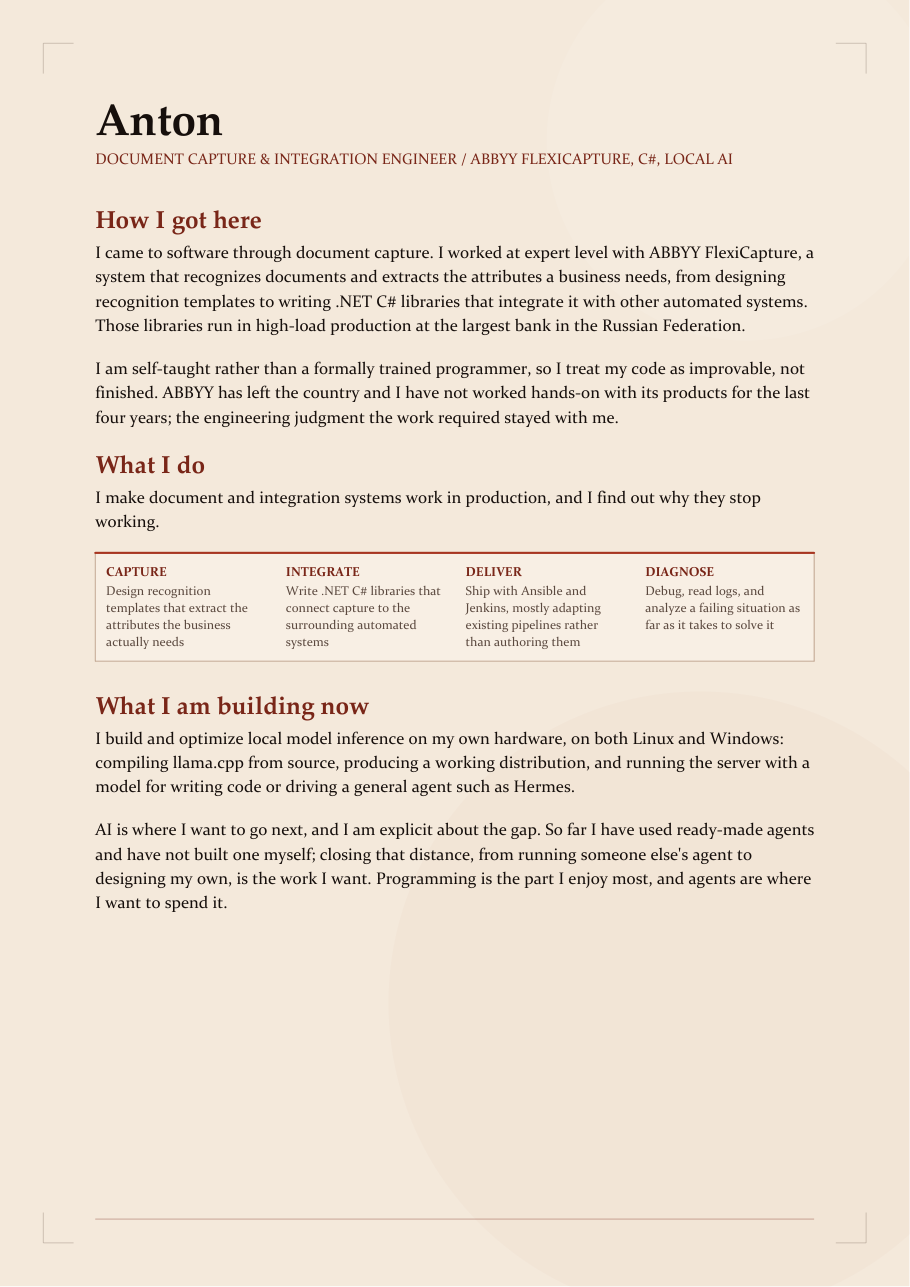
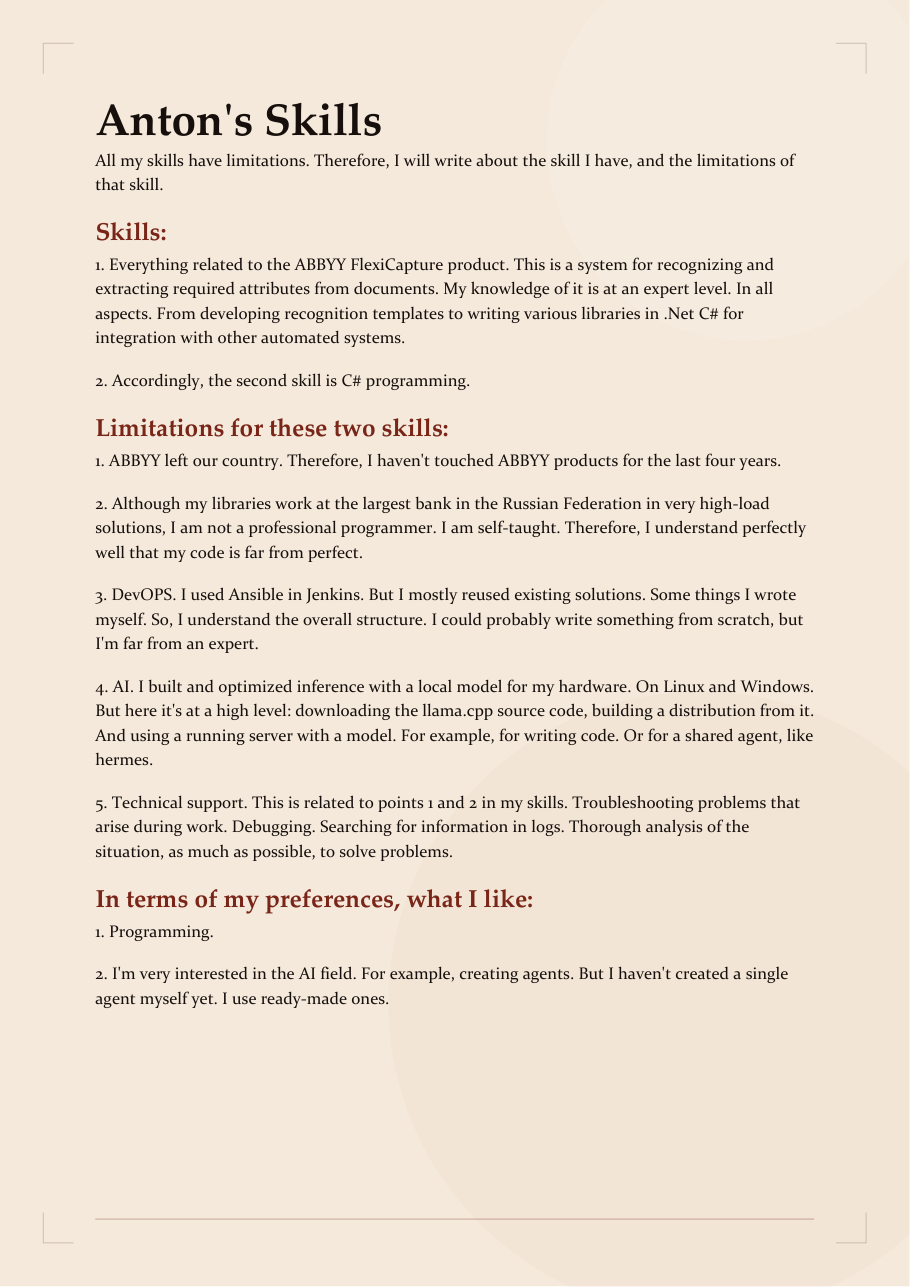
refactor: tighten Anton skills typesetting
Revise the source copy and regenerate the PDF and preview image for a
cleaner, smaller skills document. Keep the rendered artifacts synchronized
with the Markdown source.

diff --git a/internal-tools/document-pdf-typesetter/out/anton/anton-introduction.md b/internal-tools/document-pdf-typesetter/out/anton/anton-introduction.md
@@ -1,24 +1,31 @@
-# Anton
+# Anton's Skills
 
-**Document Capture & Integration Engineer / ABBYY FlexiCapture, C#, Local AI**
+All my skills have limitations. Therefore, I will write about the skill I have, and the limitations of that skill.
 
-## How I got here
+## Skills:
 
-I came to software through document capture. I worked at expert level with ABBYY FlexiCapture, a system that recognizes documents and extracts the attributes a business needs, from designing recognition templates to writing .NET C# libraries that integrate it with other automated systems. Those libraries run in high-load production at the largest bank in the Russian Federation.
+1. Everything related to the ABBYY FlexiCapture product.
+This is a system for recognizing and extracting required attributes from documents.
+My knowledge of it is at an expert level. In all aspects. From developing recognition templates to writing various libraries in .Net C# for integration with other automated systems.
 
-I am self-taught rather than a formally trained programmer, so I treat my code as improvable, not finished. ABBYY has left the country and I have not worked hands-on with its products for the last four years; the engineering judgment the work required stayed with me.
+2. Accordingly, the second skill is C# programming.
 
-## What I do
+## Limitations for these two skills:
 
-I make document and integration systems work in production, and I find out why they stop working.
+1. ABBYY left our country. Therefore, I haven't touched ABBYY products for the last four years.
 
-- **Capture:** Design recognition templates that extract the attributes the business actually needs.
-- **Integrate:** Write .NET C# libraries that connect capture to the surrounding automated systems.
-- **Deliver:** Ship with Ansible and Jenkins, mostly adapting existing pipelines rather than authoring them.
-- **Diagnose:** Debug, read logs, and analyze a failing situation as far as it takes to solve it.
+2. Although my libraries work at the largest bank in the Russian Federation in very high-load solutions, I am not a professional programmer. I am self-taught. Therefore, I understand perfectly well that my code is far from perfect.
 
-## What I am building now
+3. DevOPS. I used Ansible in Jenkins.
+But I mostly reused existing solutions.
+Some things I wrote myself. So, I understand the overall structure. I could probably write something from scratch, but I'm far from an expert.
 
-I build and optimize local model inference on my own hardware, on both Linux and Windows: compiling llama.cpp from source, producing a working distribution, and running the server with a model for writing code or driving a general agent such as Hermes.
+4. AI. I built and optimized inference with a local model for my hardware. On Linux and Windows. But here it's at a high level: downloading the llama.cpp source code, building a distribution from it. And using a running server with a model. For example, for writing code. Or for a shared agent, like hermes.
 
-AI is where I want to go next, and I am explicit about the gap. So far I have used ready-made agents and have not built one myself; closing that distance, from running someone else's agent to designing my own, is the work I want. Programming is the part I enjoy most, and agents are where I want to spend it.
+5. Technical support. This is related to points 1 and 2 in my skills. Troubleshooting problems that arise during work. Debugging. Searching for information in logs. Thorough analysis of the situation, as much as possible, to solve problems.
+
+## In terms of my preferences, what I like:
+
+1. Programming.
+
+2. I'm very interested in the AI field. For example, creating agents. But I haven't created a single agent myself yet. I use ready-made ones.
